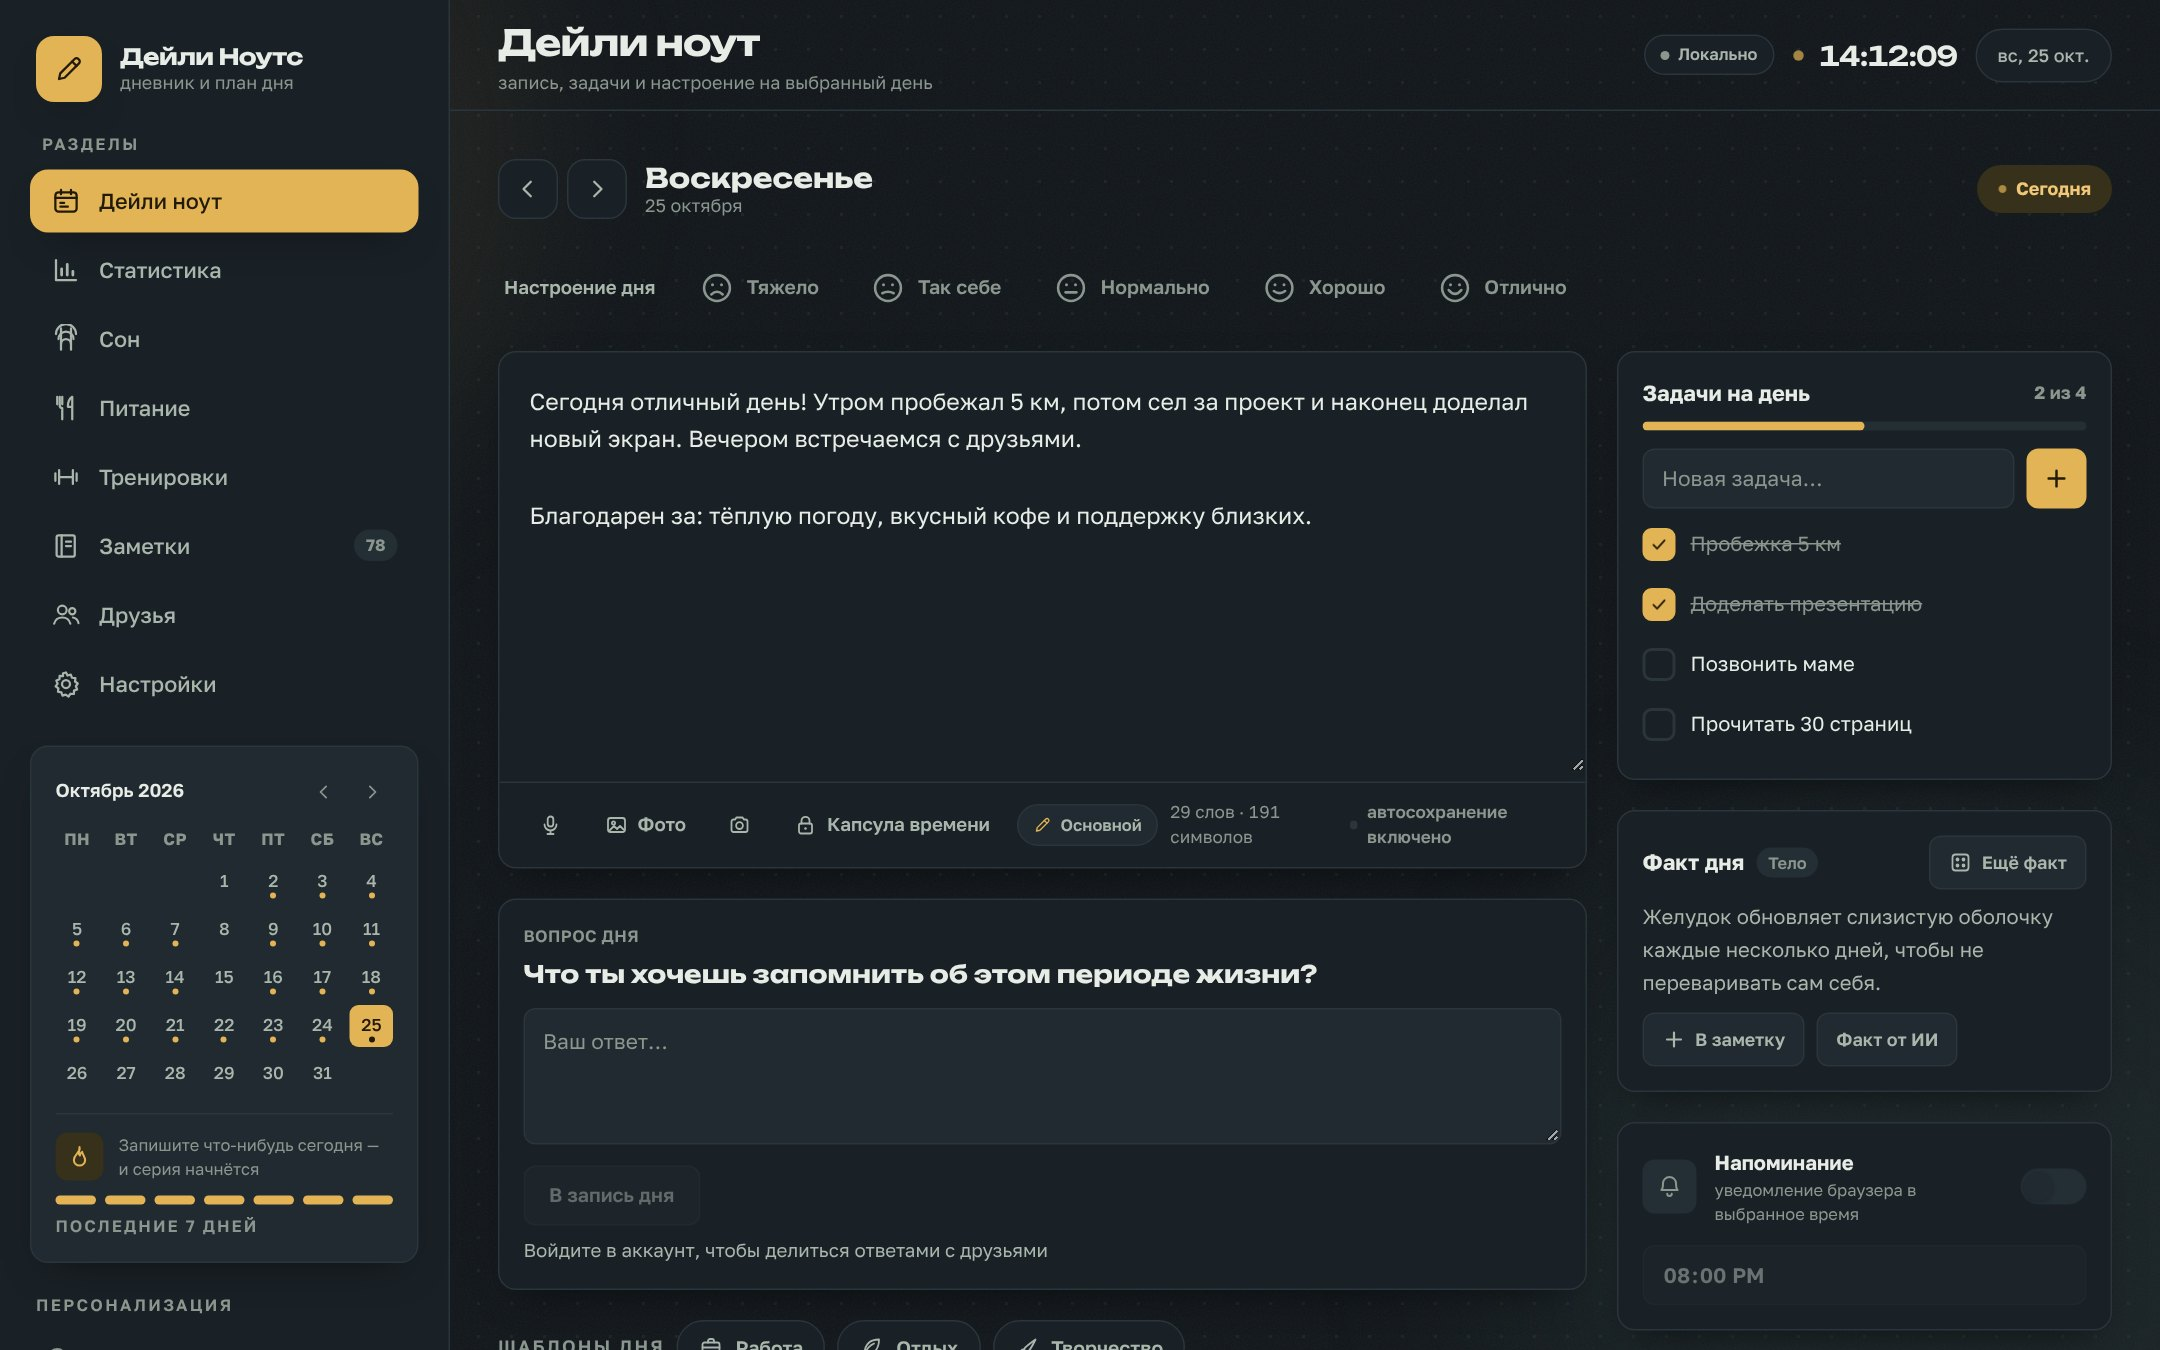
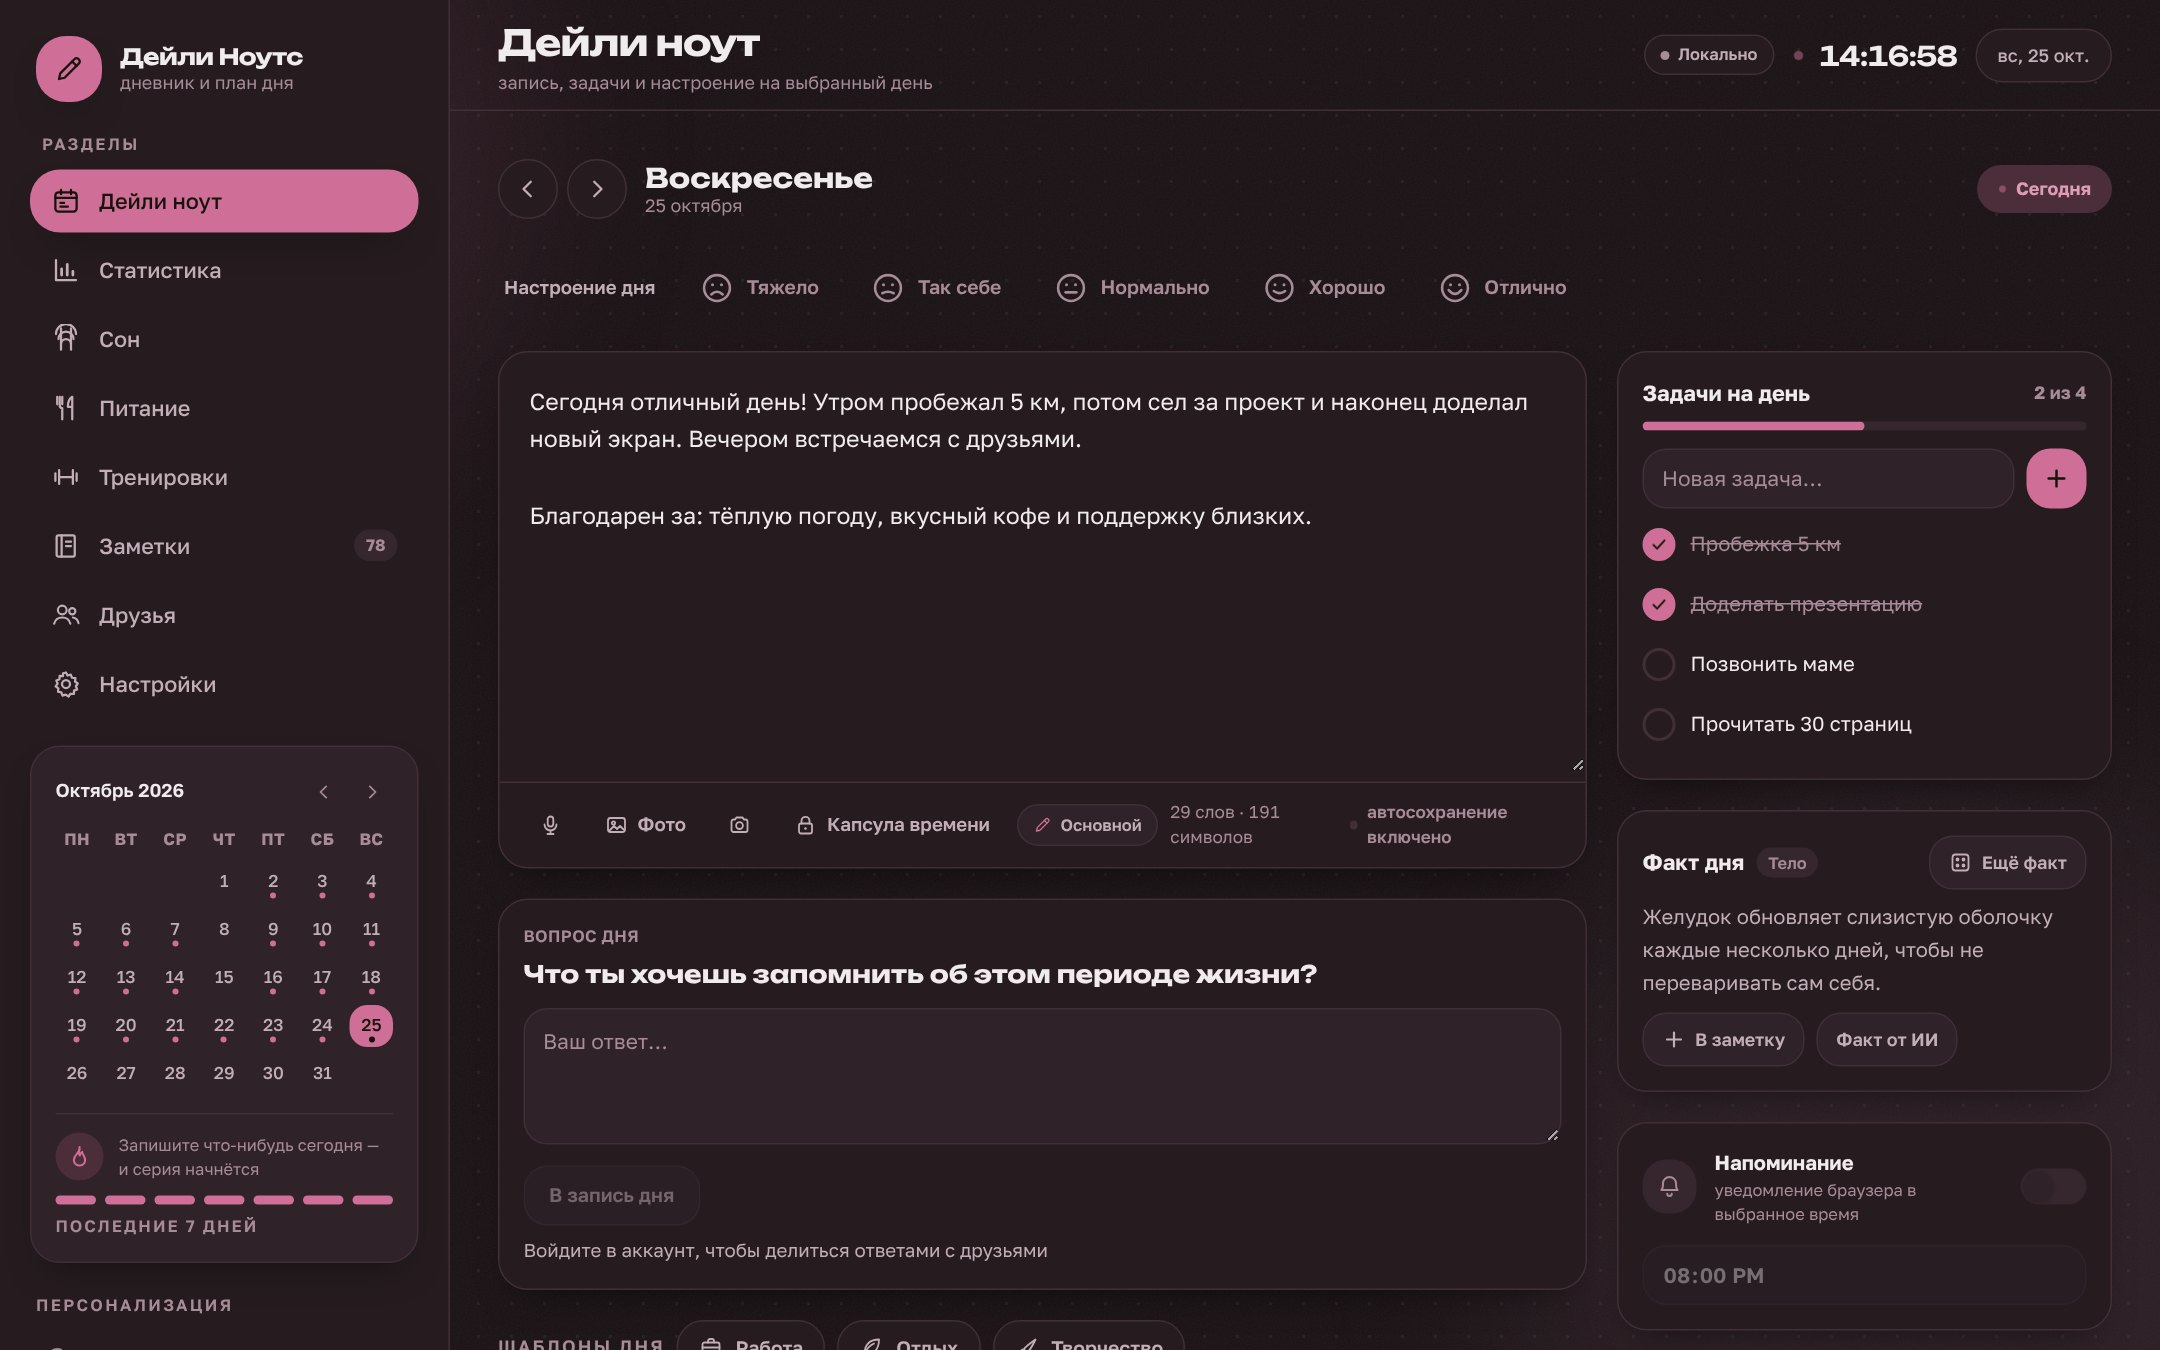
README: скриншоты в новых темах «Своя» и «Чистая»
Claude-Session: https://claude.ai/code/session_011tSjgi1JCQGi7ML8NR5LSP

diff --git a/README.md b/README.md
@@ -22,7 +22,7 @@
 
 <br>
 
-<img src="screenshots/hero.jpg" alt="Главный экран Daily Note: запись дня, задачи, факт дня и календарь" width="100%">
+<img src="screenshots/hero.jpg" alt="Главный экран Daily Note в теме «Своя»: запись дня, задачи, факт дня и календарь" width="100%">
 
 </div>
 
@@ -125,15 +125,15 @@ PIN-код и вход по отпечатку или Face ID, закрытые 
 
 <table>
 <tr>
-<td width="50%"><img src="screenshots/stats.jpg" alt="Статистика"><p align="center"><b>Статистика</b> · настроение, задачи, серии</p></td>
-<td width="50%"><img src="screenshots/sleep.jpg" alt="Сон"><p align="center"><b>Сон</b> · часы, качество, тренды</p></td>
+<td width="50%"><img src="screenshots/stats.jpg" alt="Статистика"><p align="center"><b>Статистика</b> · тема «Чистая»</p></td>
+<td width="50%"><img src="screenshots/sleep.jpg" alt="Сон"><p align="center"><b>Сон</b> · «Своя», бирюза без украшений</p></td>
 </tr>
 <tr>
-<td><img src="screenshots/food.jpg" alt="Питание"><p align="center"><b>Питание</b> · КБЖУ и быстрые продукты</p></td>
-<td><img src="screenshots/workout.jpg" alt="Тренировки"><p align="center"><b>Тренировки</b> · подходы и рекорды</p></td>
+<td><img src="screenshots/food.jpg" alt="Питание"><p align="center"><b>Питание</b> · КБЖУ и быстрые продукты, «Чистая»</p></td>
+<td><img src="screenshots/workout.jpg" alt="Тренировки"><p align="center"><b>Тренировки</b> · «Своя», оранжевый акцент</p></td>
 </tr>
 <tr>
-<td><img src="screenshots/notes.jpg" alt="Заметки"><p align="center"><b>Заметки</b> · архив, поиск и теги</p></td>
+<td><img src="screenshots/notes.jpg" alt="Заметки"><p align="center"><b>Заметки</b> · «Своя», светлая сиреневая</p></td>
 <td><img src="screenshots/friends.png" alt="Друзья"><p align="center"><b>Друзья</b> · заявки, привычки, челленджи</p></td>
 </tr>
 </table>
